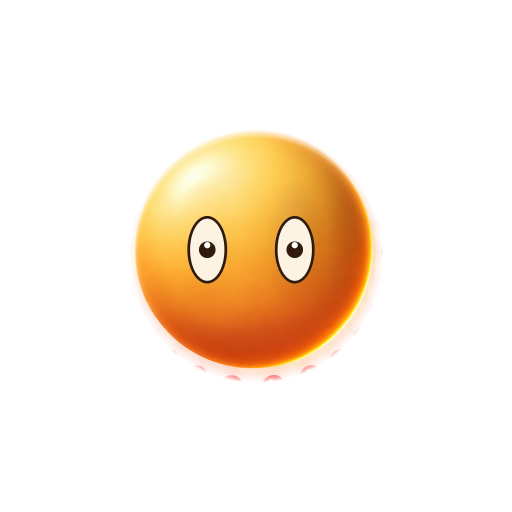
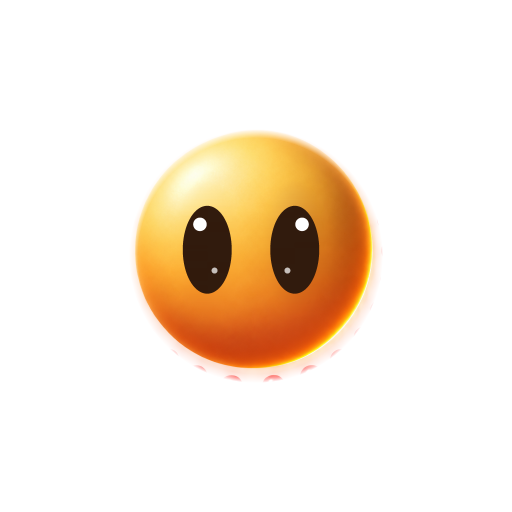
beem-motion: the page froze itself, and 'move the mouse' is not an instruction a phone can follow
'בתנועה אני לא רואה שם תנועה בכלל... רק כמה תמונות'

TWO CAUSES, BOTH MINE, AND THE FIRST EXPLAINS IT COMPLETELY.

I wrote @media (prefers-reduced-motion:reduce){.beem img{transform:none
!important}} on this page. With Reduce Motion on - which is common on a phone -
that freezes all four layers of all five demos, and what is left is four still
images. Exactly what he described. The earlier pages he said he liked had no
such rule, which is why they moved and this one did not. A page whose entire
subject is motion and which cannot show motion is not polite, it is blank. The
app still honours the setting; a spec for motion has to be able to show it.

THE SECOND IS A REAL MOBILE DEFECT regardless. The travel demo waited for
pointermove, and a phone has no pointer until you touch it - so the caption said
'move the mouse' on the one device that cannot. It now drives itself along a
slow figure-of-eight and hands control over the instant a finger arrives.

AND THE INVERTED 'SURPRISED' IS REVERTED. It worked as an inversion and it
measured as one - 1030 dark against 5408 pale, where calm is 5053 against 2872 -
and he preferred the bigger oval. He decides. The eye is back to 136x88 with
larger catchlights, and the rejected idea stays written in make-eyes.mjs
alongside its numbers, because 'the research said X and the eye still said no'
is worth keeping.

Claude-Session: https://claude.ai/code/session_01SYckMhToABMwZKynY5gnYd

Changed region(s): [[0.3438, 0.4062, 0.4688, 0.5938], [0.5, 0.375, 0.625, 0.5938]]

diff --git a/dev/look/beem-motion.html b/dev/look/beem-motion.html
@@ -65,7 +65,12 @@
   .readout div{font-size:12px;line-height:1.85;color:var(--muted);direction:ltr;text-align:left;
     font-family:ui-monospace,Menlo,Consolas,monospace}
   .readout b{color:var(--ink)}
-  @media (prefers-reduced-motion:reduce){.beem img{transform:none!important}}
+  /* NO blanket reduce-motion freeze here. That rule was transform:none
+     !important on every layer, so with 'Reduce Motion' on - which is common on
+     a phone - this page showed four still images and nothing else. On a page
+     whose entire subject IS motion that is not politeness, it is a blank
+     page. The app itself still honours the setting; a spec for motion has to
+     be able to show it. */
 </style>
 
 <div class="wrap">
@@ -120,13 +125,20 @@ function Beem(stage, mode){
   var RK = [46, 36, 29], RD = [9.4, 8.6, 7.9];   // each ring, softer outward
   this.S = S; this.mode = mode;
 
+  /* A PHONE HAS NO POINTER UNTIL YOU TOUCH IT. 'Move the mouse' is an
+     instruction a phone cannot follow, so this demo was a still picture on
+     exactly the device he was reading it on. It drives itself on a slow path
+     until a pointer arrives, and hands control over the moment one does. */
+  var lastTouch = -1e9;
   stage.addEventListener('pointermove', function(e){
     if (mode !== 'travel') return;
+    lastTouch = S.t;
     var r = stage.getBoundingClientRect();
     S.tx = (e.clientX - r.left - r.width/2) * 0.42;
     S.ty = (e.clientY - r.top - r.height/2) * 0.30;
   });
-  stage.addEventListener('pointerleave', function(){ if (mode === 'travel'){ S.tx = 0; S.ty = 0; } });
+  stage.addEventListener('pointerleave', function(){ if (mode === 'travel') lastTouch = -1e9; });
+  this.selfDrive = function(){ return mode === 'travel' && S.t - lastTouch > 1.6; };
   stage.addEventListener('pointerdown', function(){
     if (mode === 'tap'){
       S.sq = 0.19;
@@ -162,6 +174,10 @@ function Beem(stage, mode){
     var dt = Math.min(0.045, (t - last)/1000); last = t; S.t += dt;
 
     if (mode === 'float') { S.tx = 0; S.ty = Math.sin(S.t * 1.5) * 7; }
+    if (self.selfDrive()) {           // a figure-of-eight, until a finger arrives
+      S.tx = Math.sin(S.t * 0.9) * 46;
+      S.ty = Math.sin(S.t * 1.8) * 16;
+    }
     if (mode === 'wake')  { S.tx = 0; }   /* ty is driven by the wake sequence */
 
     var px = S.x, py = S.y;
@@ -219,7 +235,7 @@ function Beem(stage, mode){
 
 var M = [
   {k:'float', t:'מרחף', w:'מצב המנוחה. הגוף עולה ויורד, והטבעות <b>נגררות אחריו ומתגלגלות</b> — לא מונפשות בנפרד.', h:'רץ מעצמו'},
-  {k:'travel',t:'נוסע', w:'<b>הזז את העכבר.</b> הגוף רודף אחריך, כל טבעת רודפת אחרי הגוף ברכות משלה, וכולן <b>מתגלגלות לפי המרחק שעברו</b>.', h:'הזז את העכבר'},
+  {k:'travel',t:'נוסע', w:'רץ מעצמו, <b>ועובר לשליטתך ברגע שאתה נוגע</b>. כל טבעת רודפת אחרי הגוף ברכות משלה, וכולן <b>מתגלגלות לפי המרחק שעברו</b>.', h:'גע וגרור'},
   {k:'think', t:'חושב', w:'כל מעגל לכיוון אחר ובקצב אחר. הגוף דומם לגמרי — <b>המחשבה היא בטבעות</b>.', h:'רץ מעצמו'},
   {k:'tap',   t:'נגיעה', w:'<b>לחץ.</b> הוא נמעך <b>ומתרחב</b>, וגל נוסע החוצה — הטבעת הרחוקה מקבלת אותו אחרונה.', h:'לחץ עליו'},
   {k:'wake',  t:'מתעורר', w:'<b>לחץ.</b> קופץ מהשקע. הנחיתה היא אותה מעיכה, רק שהיא באה מהתאוצה ולא מאצבע.', h:'לחץ שוב'}
